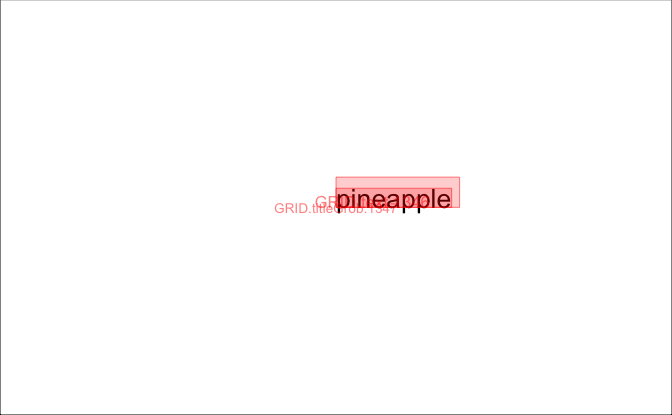
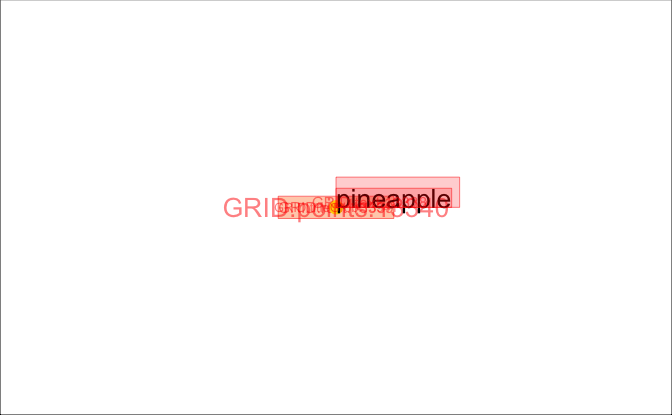
View titlegrob output with debug = TRUE

Changed region(s): [[0.3125, 0.4627, 0.6875, 0.5494]]

diff --git a/titlegrob.md b/titlegrob.md
@@ -1,7 +1,7 @@
 titleGrob()
 ================
 Kara Woo
-17 July, 2017
+18 July, 2017
 
 ``` r
 library("grid")
@@ -284,7 +284,7 @@ titleGrob experiments
 ``` r
 ## Helper function for displaying titleGrob
 display_tg <- function(label, x = 0.5, y = 0.5, ..., showgrob = FALSE) {
-  tg <- ggplot2:::titleGrob(label, x, y, ...)
+  tg <- ggplot2:::titleGrob(label, x, y, ..., debug = TRUE)
   grid.newpage()
   grid.rect()                       # Just so there's a border around the figure
   grid.draw(tg)
@@ -332,11 +332,13 @@ grid.ls(viewports = TRUE, fullnames = TRUE)
 ```
 
     ## ROOT
-    ##   GRID.rect.1348
-    ##   GRID.VP.227
-    ##     GRID.VP.228
-    ##       GRID.titleGrob.1347
-    ##         GRID.text.1346
+    ##   GRID.rect.13342
+    ##   GRID.VP.2938
+    ##     GRID.VP.2939
+    ##       GRID.titleGrob.13341
+    ##         GRID.rect.13339
+    ##         GRID.points.13340
+    ##         GRID.text.13338
     ##       2
 
 The `grid.ls()` output shows that we beneath the root we have a `rect` and a viewport. Within the viewport is a child viewport as well as a `titleGrob` class object which has a text grob as a child.
@@ -357,7 +359,7 @@ childNames(
 )
 ```
 
-    ## [1] "GRID.text.1360"
+    ## [1] "GRID.text.13364"
 
 What happens if we expand the margins?
 
